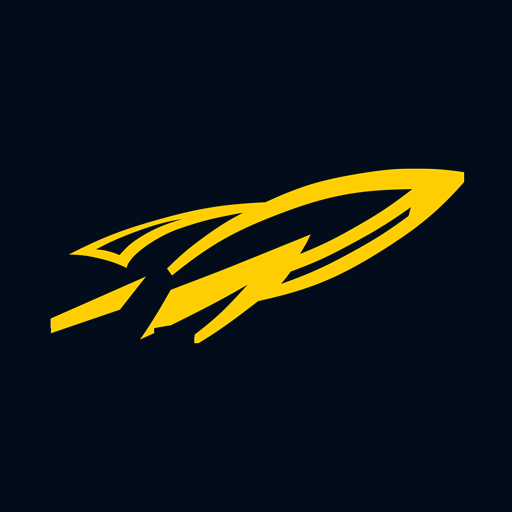
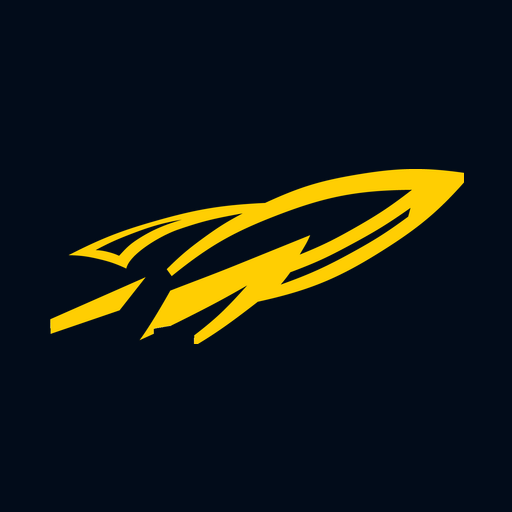
Adopt official Toledo brand assets across the UI
- Add the three official primary lockups to public/brand (dark, gold,
  and light background variants) as the source of truth
- Login hero: official dark-surface lockup (gold rocket + white TOLEDO)
  replaces the rocket image and text subtitle
- Chrome (topbar) keeps the standalone gold rocket mark; favicon
  regenerated from it on navy
- toledo-rocket-navy.png: standalone navy rocket (midnight blue #15397F)
  kept for future light surfaces
- toledo-lockup-dark.png is the alpha-trimmed dark-background lockup

diff --git a/frontend/src/app/login/page.tsx b/frontend/src/app/login/page.tsx
@@ -57,21 +57,18 @@ function LoginForm() {
       <div className="w-full max-w-sm">
         <div className="mb-6 flex flex-col items-center text-center">
           <Image
-            src="/brand/toledo-rocket.png"
-            width={184}
-            height={78}
+            src="/brand/toledo-lockup-dark.png"
+            width={2021}
+            height={1177}
             alt="Toledo Rockets"
-            className="h-16 w-auto object-contain"
+            className="h-32 w-auto object-contain"
             priority
           />
-          <h1 className="mt-4 font-display text-3xl font-semibold uppercase tracking-wide text-foreground">
+          <h1 className="mt-4 font-display text-xl font-semibold uppercase tracking-[0.18em] text-foreground">
             Football-IQ
           </h1>
           <p className="mt-1 font-display text-sm font-medium uppercase tracking-[0.14em] text-primary">
             See more. Coach smarter. Win together.
-          </p>
-          <p className="mt-1 text-xs text-muted-foreground">
-            Toledo Rockets film intelligence
           </p>
         </div>
 
